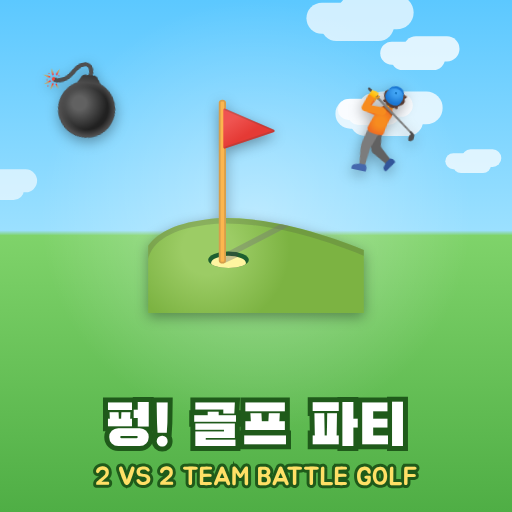
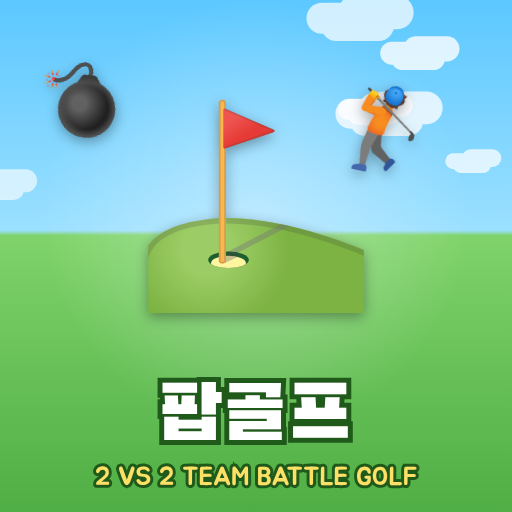
게임 이름을 '팝골프'로 변경하고 게임 페이지 설명·이미지 갱신
Claude-Session: https://claude.ai/code/session_015cBKWYuWxgfVK4W3YHBKn8

Changed region(s): [[0.1875, 0.7188, 0.8125, 0.9062]]

diff --git a/roblox-popgolf/STORE_DESCRIPTION.md b/roblox-popgolf/STORE_DESCRIPTION.md
@@ -1,4 +1,4 @@
-# 게임 페이지 설명 (복사해서 붙여넣기)
+# 팝골프 게임 페이지 설명 (복사해서 붙여넣기)
 
 크리에이터 허브 → 내 게임 → 기본 정보에서 이름과 설명 칸에 붙여넣으세요. 영어는 **현지화**(Localization)에서 영어 번역으로 등록하세요.
 
@@ -6,25 +6,29 @@
 
 ## 🇰🇷 한국어
 
-**이름:** ⛳ 펑! 골프 파티 [2대2 팀 배틀 골프]
+**이름:** ⛳ 팝골프 [2대2 팀 배틀 골프]
 
 **설명:**
 ```
-⛳ 2대2 팀 배틀 골프! 우리 공을 먼저 홀컵에 넣는 팀이 이겨요!
+⛳ 휘두르면 펑! 공도 사람도 날아가는 2대2 팀 배틀 골프!
 
-🔴 레드 팀 vs 🔵 블루 팀 — 팀마다 공이 하나, 타수는 없어요!
-🏌 꾹 눌러 힘을 모았다가 휘두르면 앞에 있는 건 전부 맞아요
-• 공은 하늘 높이 날아가고
-• 상대 선수는 날아가 넘어지고
+🔴 레드 팀 vs 🔵 블루 팀, 팀마다 공은 딱 하나!
+타수는 세지 않아요. 우리 공을 먼저 홀컵에 넣는 팀이 이겨요.
+
+🏌 꾹 눌러 힘을 모았다가 떼면 휘둘러요
+• 우리 공은 하늘 높이 날아가요
+• 상대 선수는 날아가서 넘어져요
 • 상대 팀 공도 멀리 쳐 낼 수 있어요!
+• 그린 위에서는 살살 굴리는 퍼팅
 
 ⛳ 진짜 골프장 같은 코스
 • 굽이치는 페어웨이, 그린, 벙커, 연못, 나무
-• 매 홀 새로운 코스
+• 홀마다 코스가 새로 만들어져요
 
 ❓ 아이템 상자: 💣 물풍선 · 🧊 얼음 · 👟 대시 · 🛡 방패 · 🌬 돌풍
 
-🎨 골프채 꾸미기 21종 — 빛 입자·고리·무지개 연출 (확률은 게임 안에 공개, 성능 차이 없음)
+🎨 골프채 꾸미기 21종: 빛 입자, 회전 고리, 무지개 연출
+(뽑기 확률은 게임 안에 공개, 꾸미기만 바뀌고 실력에는 영향 없음)
 
 👫 친구와 팀을 짜서 뒤엉켜 보세요!
 👍 재밌었다면 좋아요와 즐겨찾기 부탁해요!
@@ -32,17 +36,20 @@
 
 ## 🇺🇸 English
 
-**Name:** ⛳ Pop Golf Party [2v2 Team Battle Golf]
+**Name:** ⛳ Pop Golf [2v2 Team Battle Golf]
 
 **Description:**
 ```
-⛳ 2v2 Team Battle Golf! First team to sink their own ball wins the hole!
+⛳ Swing and POP! Balls AND players go flying in this 2v2 team battle golf!
 
-🔴 Red vs 🔵 Blue — one ball per team, no stroke counting!
-🏌 Hold to charge, release to swing — everything in front of you gets hit
-• Balls fly high into the sky
-• Rivals go flying
+🔴 Red Team vs 🔵 Blue Team, one ball per team!
+No stroke counting. First team to sink their own ball wins the hole.
+
+🏌 Hold to charge, release to swing
+• Your ball soars into the sky
+• Rivals get knocked flying
 • You can whack the enemy's ball away too!
+• Gentle putts on the green
 
 ⛳ Real golf-course holes
 • Winding fairways, greens, bunkers, ponds and trees
@@ -50,8 +57,13 @@
 
 ❓ Item boxes: 💣 Water Bomb · 🧊 Freeze · 👟 Dash · 🛡 Shield · 🌬 Gust
 
-🎨 21 club skins with glowing particles, rings and rainbow effects (odds shown in-game, cosmetic only)
+🎨 21 club skins with glowing particles, spinning rings and rainbow effects
+(Capsule odds are shown in-game. Skins are cosmetic only.)
 
 👫 Team up with friends and get chaotic!
 👍 Like and favorite if you had fun!
 ```
+
+## 짧은 소개 문구 (광고·SNS용)
+- 🇰🇷 휘두르면 펑! 공도 사람도 날아가는 2대2 골프 대난투 ⛳
+- 🇺🇸 Swing and POP! 2v2 golf chaos where balls and players fly ⛳

diff --git a/ROBLOX_GAMES.md b/ROBLOX_GAMES.md
@@ -1,6 +1,6 @@
 # 🎮 로블록스 게임 5종 한눈에 보기
 
-| | ⭐ 별똥별 타이쿤 | ☁ 구름 오비 | 🧊 얼음땡 술래잡기 | 🍢 떡볶이 가게 타이쿤 | ⛳ 펑! 골프 파티 |
+| | ⭐ 별똥별 타이쿤 | ☁ 구름 오비 | 🧊 얼음땡 술래잡기 | 🍢 떡볶이 가게 타이쿤 | ⛳ 팝골프 |
 |---|---|---|---|---|---|
 | 폴더 | `roblox-starfall/` | `roblox-cloudclimb/` | `roblox-freezetag/` | `roblox-tteokbokki/` | `roblox-popgolf/` |
 | 장르 | 수집 시뮬레이터 | 장애물 코스(오비) | 라운드제 파티 게임 | 버튼식 타이쿤 | 2대2 팀 배틀 골프 |

diff --git a/roblox-popgolf/GAME_DESIGN.md b/roblox-popgolf/GAME_DESIGN.md
@@ -1,4 +1,4 @@
-# ⛳ 펑! 골프 파티 (Pop Golf Party) — 기획서 v2 (2대2 팀 배틀 골프)
+# ⛳ 팝골프 (Pop Golf) — 기획서 v2 (2대2 팀 배틀 골프)
 
 ## 1. 한 줄 소개
 캐릭터가 직접 코스를 뛰어다니며 골프채로 **팀 공**을 치고, 상대 선수를 골프채로 넘어뜨리거나 상대 공을 쳐 내면서 **먼저 홀컵에 넣는 팀이 이기는** 2대2 배틀 골프.

diff --git a/roblox-popgolf/README.md b/roblox-popgolf/README.md
@@ -1,4 +1,4 @@
-# ⛳ 펑! 골프 파티 — 로블록스 게임 소스
+# ⛳ 팝골프 — 로블록스 게임 소스
 
 기획(타깃 연령, 가챠 설계, 수익 모델)은 [GAME_DESIGN.md](GAME_DESIGN.md), 게임 페이지 설명은 [STORE_DESCRIPTION.md](STORE_DESCRIPTION.md), 이미지는 [images/](images/) 를 보세요.
 
